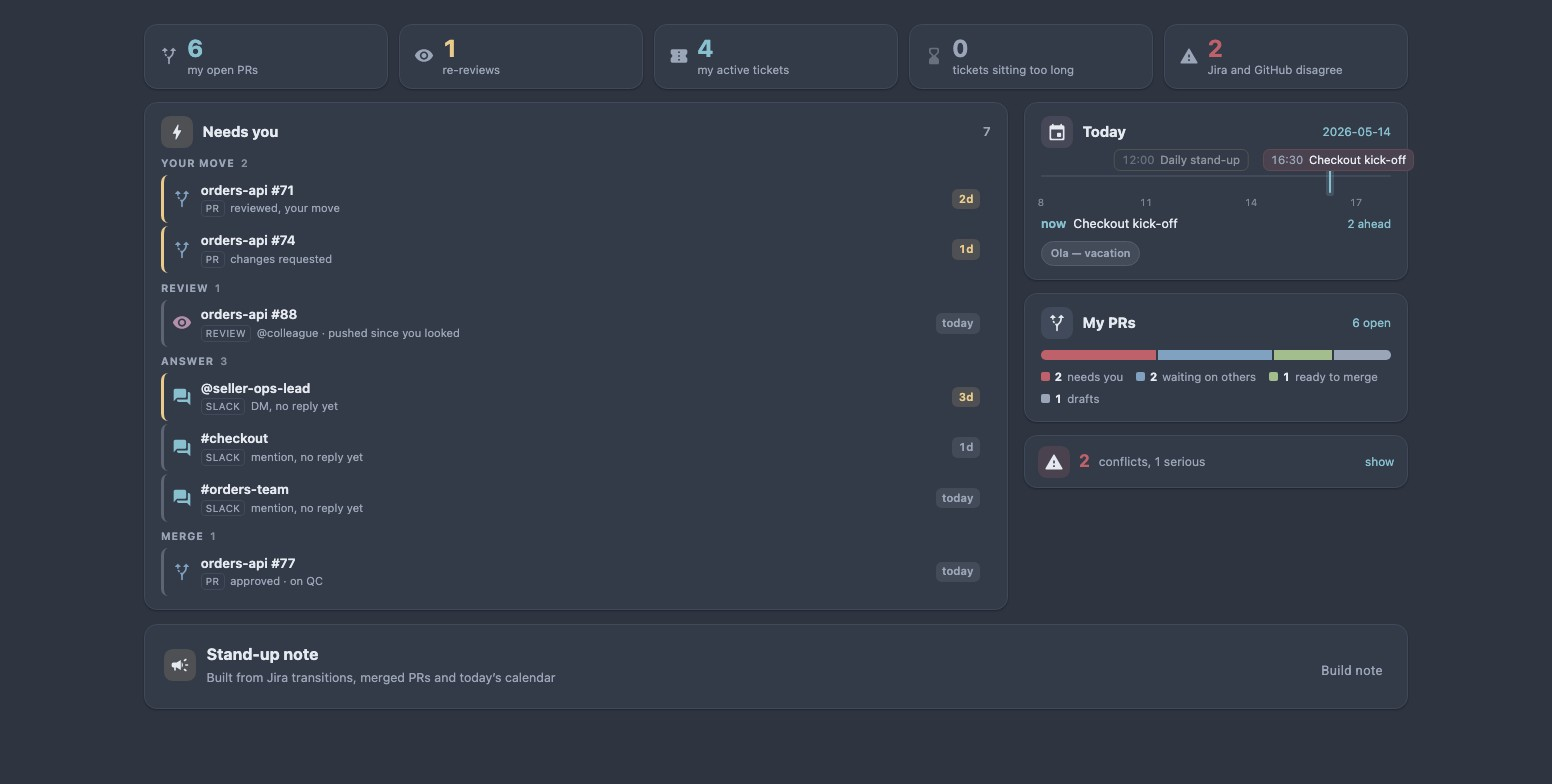
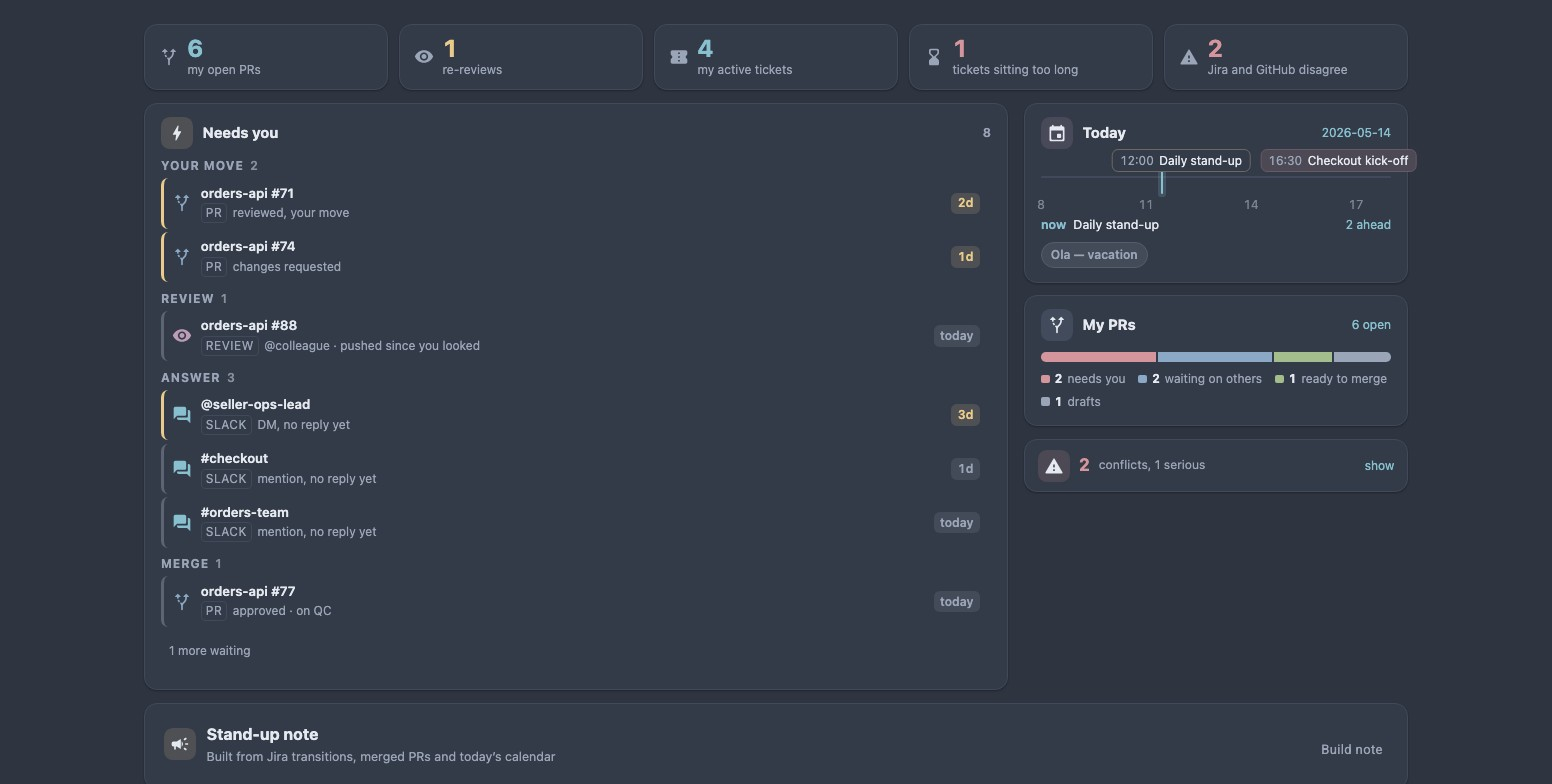
add CI, and stop the screenshot script shooting the wrong project
Three things that had drifted apart from the code.

**CI.** There is no reviewer here, so a broken main is noticed the next time the app is
opened. The workflow runs the same three gates in the same order as a local check. macOS
rather than Linux, and not by preference: the two native bindings pinned as devDependencies
to work around npm skipping optional ones both declare `os: darwin`, so `npm ci` on Linux
fails before it reaches a test. The NDA scan stays out of CI — it reads its terms from
gitignored files and can only run where those exist.

**`npm run shots`.** It reused whatever Storybook was answering on port 6007. Another
project's Storybook was, so it shot the README pictures against that one; what stopped a
foreign UI landing in a public README was the `.kpi-strip` wait timing out, which is luck.
The port is now identified by the story it must contain, and a port serving something else
gets stepped around rather than trusted. Screenshots re-shot from the current dashboard.

**Tech-debt entries that were describing the past.** The changelog-per-ticket entry has been
fixed since it was written — the reads run four at a time — and the new activity scan has a
thin source worth recording. `jiraActive.ts` claimed two callers and has one.

diff --git a/src/jiraActive.ts b/src/jiraActive.ts
@@ -8,9 +8,9 @@ import { DEFAULT_VOCAB, inStatusGroup, type StatusVocab } from './statusVocab';
  * somebody, and it is still mine until it ships. Which statuses those are is configuration —
  * see `statusVocab.ts` — because the names past "in review" belong to whoever owns the board.
  *
- * This lives on its own because two places ask the question — the Jira panel and the dashboard
- * queue — and two copies of the list is how they start disagreeing about which tickets are
- * yours today.
+ * This lives on its own so the question has one answer. Only the dashboard queue asks it
+ * today, through `activeTickets`; the predicates are exported because the answer belongs here
+ * rather than inlined at the next call site that needs it.
  */
 export const isActiveStatus = (status: string, vocab: StatusVocab = DEFAULT_VOCAB) =>
   inStatusGroup(vocab, 'active', status);
